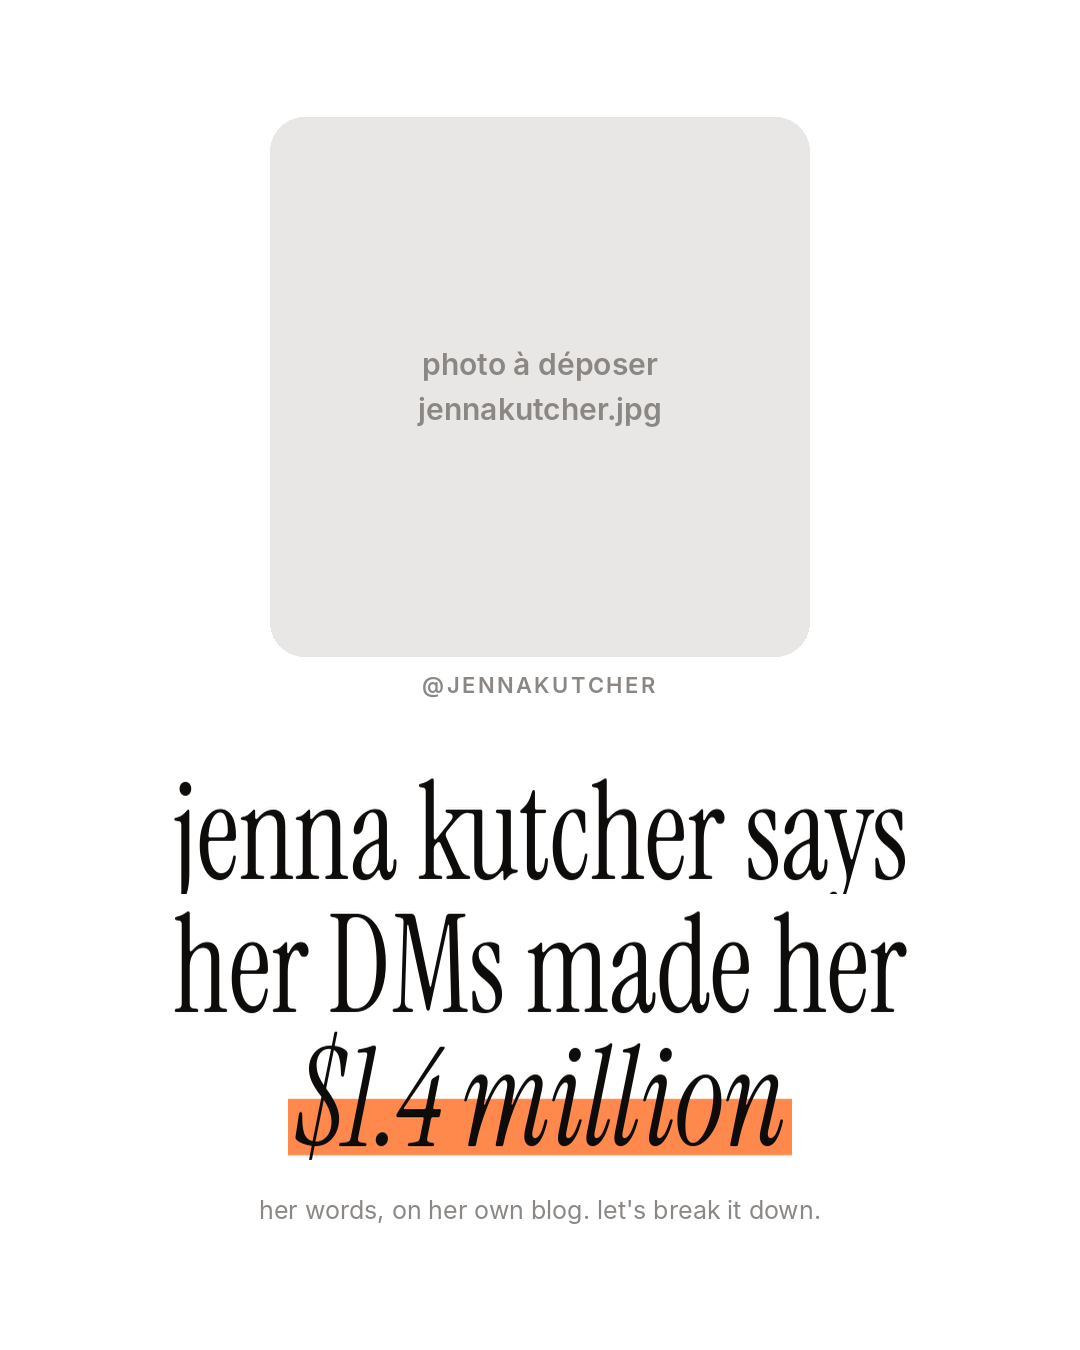
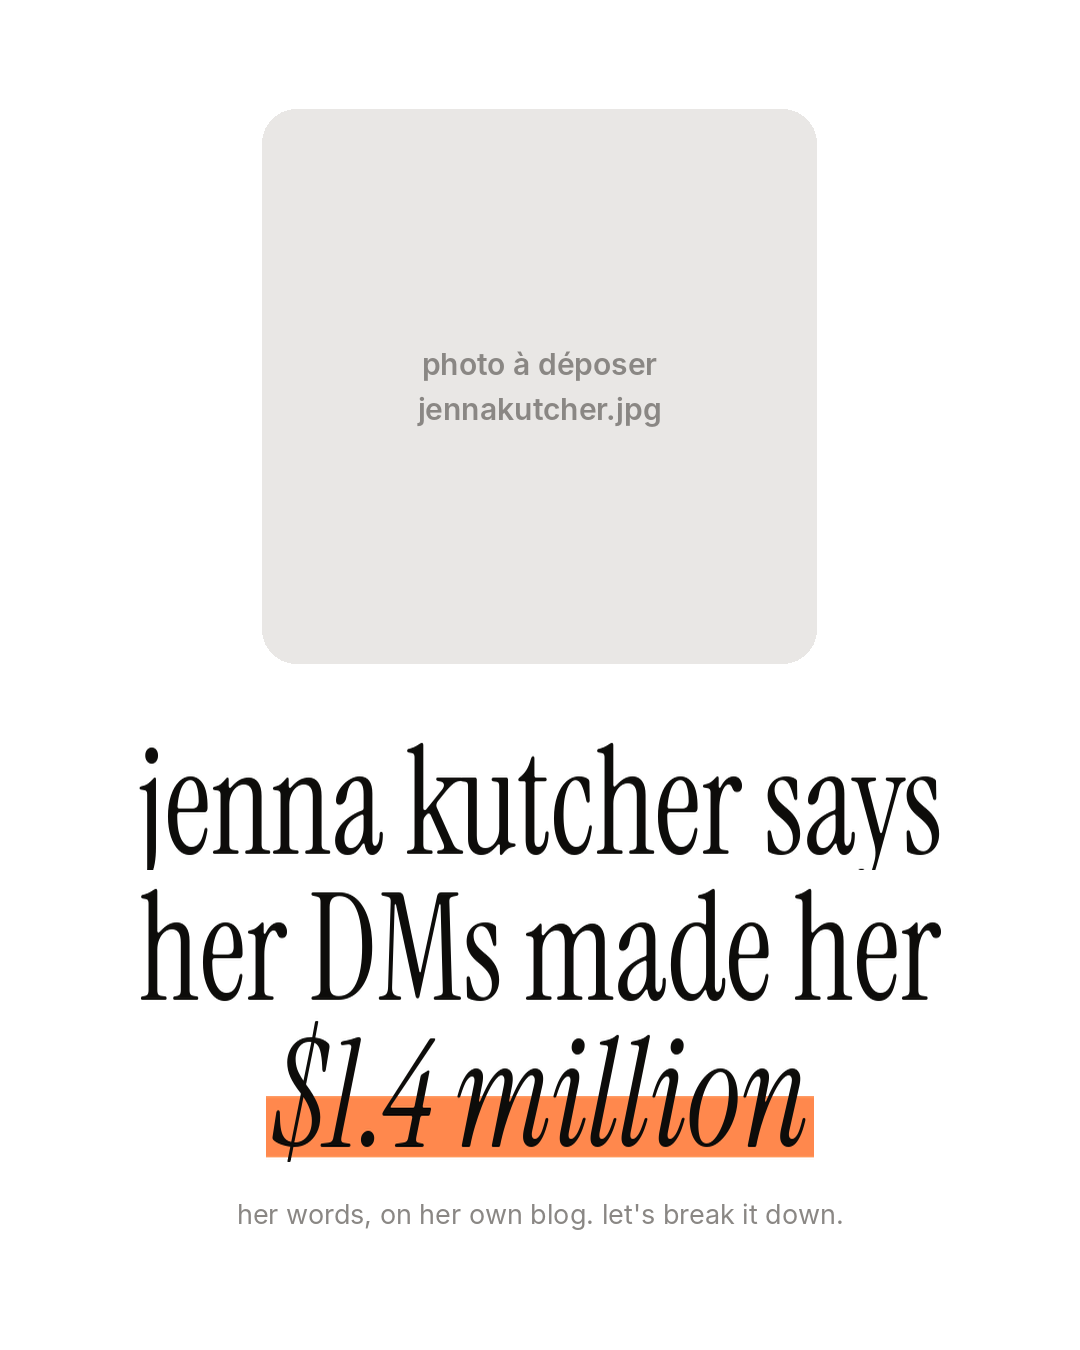
Carrousels TOFU : photo de Zig Ziglar (CC BY-SA, crédit en légende), rien sous les photos

Changed region(s): [[0.1222, 0.0622, 0.8861, 0.9333], [0.4583, 0.28, 0.4889, 0.3111], [0.3972, 0.28, 0.4278, 0.3111]]

diff --git a/CONTENU/06_GABARITS/carrousel.py b/CONTENU/06_GABARITS/carrousel.py
@@ -480,7 +480,8 @@ def portrait(path: str, handle: str, width: int, ratio: float, c: dict) -> Image
 def photo_block(b: dict, c: dict, k: float) -> Image.Image:
     width = int(min(b.get("width", 560) * k ** 0.3, CW))
     ph = portrait(b["photo"], b.get("handle", ""), width, b.get("ratio", 1.1), c)
-    lab = label(b.get("handle", ""), c, size=int(22 * min(k, 1.4)), align="center") if b.get("handle") else None
+    # rien sous la photo par défaut (retour du fondateur du 10/10/2026) ; "show_handle": true pour l'afficher
+    lab = label(b.get("handle", ""), c, size=int(22 * min(k, 1.4)), align="center") if b.get("show_handle") and b.get("handle") else None
     hh = ph.height + (lab.height + 14 if lab else 0)
     out = Image.new("RGBA", (W, hh), (0, 0, 0, 0))
     out.alpha_composite(ph, ((W - ph.width) // 2, 0))
@@ -497,7 +498,8 @@ def versus(people: list[dict], c: dict, k: float) -> Image.Image:
     a = portrait(people[0]["photo"], people[0].get("handle", ""), width, ratio, c)
     b2 = portrait(people[1]["photo"], people[1].get("handle", ""), width, ratio, c)
     fl = int(22 * min(k, 1.4))
-    hh = a.height + int(fl * 2.6)
+    show = any(pp.get("show_handle") for pp in people)
+    hh = a.height + (int(fl * 2.6) if show else 0)
     out = Image.new("RGBA", (W, hh), (0, 0, 0, 0))
     out.alpha_composite(a, (MX, 0))
     out.alpha_composite(b2, (W - MX - width, 0))
@@ -505,7 +507,8 @@ def versus(people: list[dict], c: dict, k: float) -> Image.Image:
     d.text((W / 2, a.height / 2), "vs", font=font(SERIF_I, 120), fill=ORANGE, anchor="mm")
     f = font(SANS_SB, fl)
     for x, pp in ((MX + width / 2, people[0]), (W - MX - width / 2, people[1])):
-        d.text((x, a.height + fl * 1.3), pp.get("handle", "").upper(), font=f, fill=c["muted"], anchor="mm")
+        if pp.get("show_handle"):
+            d.text((x, a.height + fl * 1.3), pp.get("handle", "").upper(), font=f, fill=c["muted"], anchor="mm")
     return out
 
 

diff --git a/CONTENU/00_STRATEGIE/retours-validation.md b/CONTENU/00_STRATEGIE/retours-validation.md
@@ -88,3 +88,9 @@ Format d'une règle :
 - Règle : **la planche E est la référence fixe de Seth** (`02_AVATARS/seth/seth_planche.jpg`). Toutes les images et tous les plans de Seth partent d'elle, jointe à chaque génération ; on ne modifie plus son look sans nouvelle décision du fondateur.
 - Retour : « Tu pourrais me faire des expressions en plus ? Des visages agacés, qui veulent faire comprendre quelque chose à quelqu'un, qui revendiquent, choqué, estomaqué, incompréhension… Je veux vraiment qu'il ait des expressions super humaines. »
 - Règle : Seth a une **planche d'expressions** (`seth/seth_expressions.jpg`) en plus de sa planche de référence : agacé, qui insiste pour faire passer son point, qui revendique, choqué, estomaqué, incompréhension, incrédule, exaspéré… Des expressions **franches et très humaines** (les sourcils, la bouche, les rides, la tête qui penche), jamais neutres ni figées. Les plans vidéo de la banque s'en inspirent : chaque plan HOOK ou BODY porte une émotion lisible en une seconde.
+
+## 2026-10-10 · Photos des carrousels TOFU
+- Retour : « Pourquoi j'ai toujours pas d'image avec la tête d'Hormozi ? Je veux les images dans mes posts ! » puis « Récupère n'importe quelle photo sur Google, on s'en fout. »
+- Règle : Claude récupère lui-même **toute photo sous licence libre** (domaine public, CC0, Creative Commons qui autorise l'usage commercial) trouvée sur Wikimedia ou Openverse. Les photos protégées (Google, Instagram, presse) ne sont pas récupérées par Claude : le fondateur les dépose lui-même dans `05_BANQUE_IMAGES/personnalites/` s'il le décide, et Claude régénère aussitôt.
+- Retour : « Et ne mets pas la source en dessous de la photo, on s'en fout ! »
+- Règle : **rien sous les photos** (ni source, ni crédit, ni @). Quand une licence exige un crédit (CC BY, CC BY-SA), il va dans la **légende** du post, en dernière ligne.
